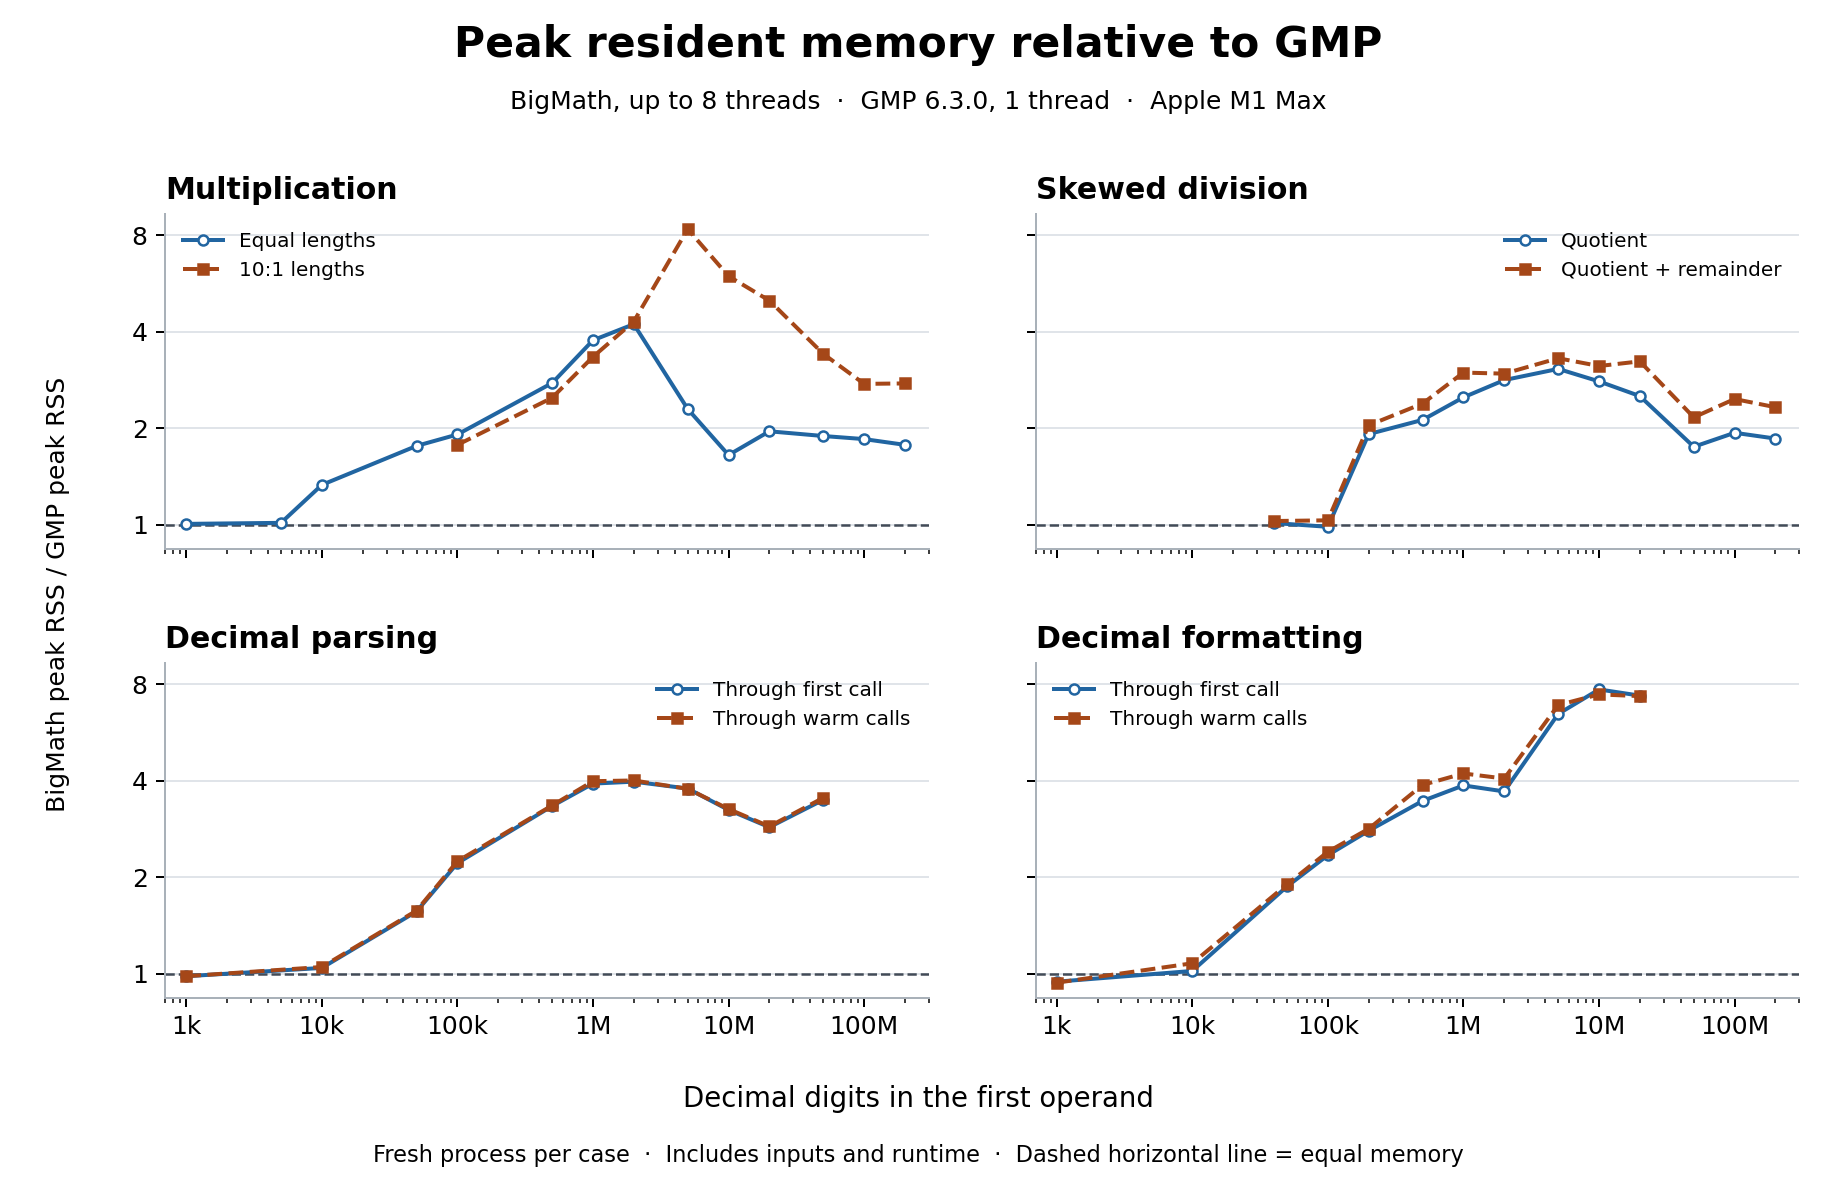
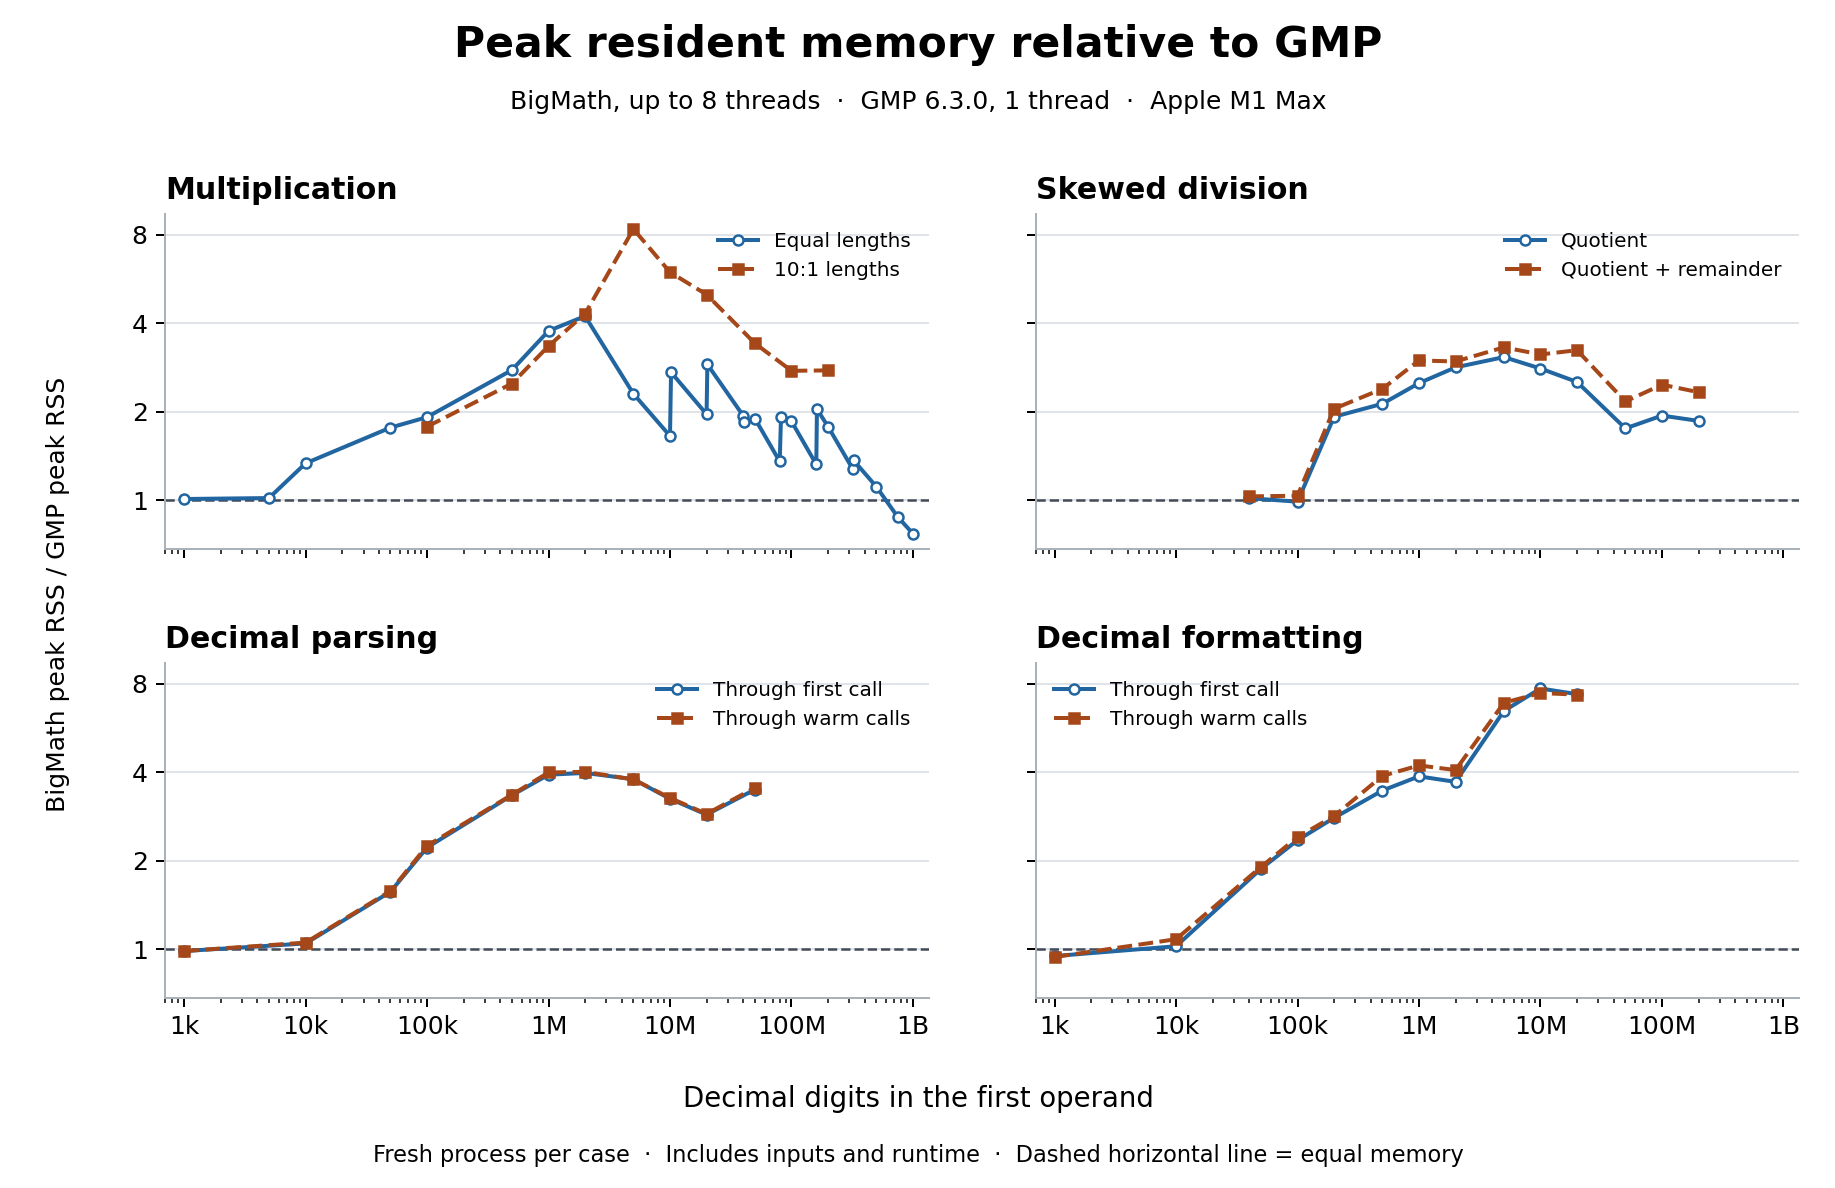
Extend README time and memory comparisons to one billion digits

diff --git a/docs/images/make_benchmark_plots.py b/docs/images/make_benchmark_plots.py
@@ -26,7 +26,18 @@ BEFORE_AFTER = [
 ]
 
 
-def ratio_plot(path, results, figure_title, threads, legend_location="upper right"):
+def large_product_ratios(library):
+    path = BENCHMARKS / "2026-11-21-blocked-crt-memory-m1-max.csv"
+    with path.open(newline="") as src:
+        products = [r for r in csv.DictReader(src)
+                    if r["op"] == "mul" and r["a_digits"] == r["b_digits"]
+                    and int(r["a_digits"]) >= 200_000_000 and r["status"] == "ok"]
+    gmp = {r["id"]: float(r["warm_ms"]) for r in products if r["library"] == "gmp"}
+    return sorted((int(r["a_digits"]), float(r["warm_ms"]) / gmp[r["id"]])
+                  for r in products if r["library"] == library)
+
+
+def ratio_plot(path, results, figure_title, threads, library, legend_location="upper right"):
     with results.open(newline="") as src:
         rows = list(csv.DictReader(line for line in src if not line.startswith("#")))
 
@@ -67,12 +78,16 @@ def ratio_plot(path, results, figure_title, threads, legend_location="upper righ
             ax.plot(*series(op, phase, shape), label=label, color=color, marker=marker,
                     linestyle=style, markersize=4.4, linewidth=1.7,
                     markerfacecolor="white" if style == "--" else color)
-        ax.set_xlim(700, 3e8)
+        if title == "Multiplication":
+            ax.plot(*zip(*large_product_ratios(library)), label="Equal lengths · fresh process",
+                    color="#438456", marker="^", markersize=4.5, linewidth=1.7)
+        ax.set_xlim(700, 1.35e9)
         ax.spines[["top", "right"]].set_visible(False)
         ax.spines[["bottom", "left"]].set_color("#a9b1b9")
         ax.tick_params(labelsize=9)
         ax.yaxis.set_minor_formatter(NullFormatter())
-        ax.legend(loc=legend_location, frameon=False, fontsize=9)
+        ax.legend(loc="best" if title == "Multiplication" else legend_location,
+                  frameon=False, fontsize=9)
     ticks = [1 / 16, 1 / 8, 1 / 4, 1 / 2, 1, 2, 4, 8]
     lo, hi = axes[0, 0].get_ylim()
     if lo > 0.5:
@@ -80,8 +95,8 @@ def ratio_plot(path, results, figure_title, threads, legend_location="upper righ
         axes[0, 0].set_ylim(bottom=lo)
     visible = [t for t in ticks if lo <= t <= hi]
     axes[0, 0].set_yticks(visible, [f"{t:g}×" for t in visible])
-    axes[0, 0].set_xticks([1e3, 1e4, 1e5, 1e6, 1e7, 1e8],
-                          ["1k", "10k", "100k", "1M", "10M", "100M"])
+    axes[0, 0].set_xticks([1e3, 1e4, 1e5, 1e6, 1e7, 1e8, 1e9],
+                          ["1k", "10k", "100k", "1M", "10M", "100M", "1B"])
     fig.suptitle(figure_title, fontsize=17, fontweight="bold", y=0.98)
     fig.text(0.5, 0.918, "Time relative to GMP  ·  Below 1× means BigMath is faster", ha="center", fontsize=11)
     fig.supxlabel("Decimal digits in the first operand", fontsize=11, y=0.066)
@@ -174,10 +189,11 @@ if __name__ == "__main__":
     ratio_plot(HERE / "bigmath_vs_gmp_single_thread.png",
                BENCHMARKS / "2026-11-21-blocked-crt-m1-max-single-thread.csv",
                "Single-thread BigMath vs GMP 6.3.0 on Apple M1 Max", "1 thread per library",
-               legend_location="best")
+               "bigmath_single", legend_location="best")
     ratio_plot(HERE / "bigmath_vs_gmp.png",
                BENCHMARKS / "2026-11-21-blocked-crt-m1-max.csv",
-               "BigMath vs GMP 6.3.0 on Apple M1 Max", "Up to 8 BigMath threads, 1 GMP thread")
+               "BigMath vs GMP 6.3.0 on Apple M1 Max", "Up to 8 BigMath threads, 1 GMP thread",
+               "bigmath_default")
     small = BENCHMARKS / "2026-11-21-small-operands.csv"
     if small.exists():
         small_ops_plot(HERE / "bigmath_vs_gmp_small.png", small)

diff --git a/docs/images/make_memory_plots.py b/docs/images/make_memory_plots.py
@@ -29,8 +29,7 @@ def axes_style(ax):
 
 def plot_ratios(rows, library, path, host, gmp_name, default_name):
     ref = {(r["id"], r["op"]): r for r in rows if r["library"] == "gmp"}
-    data = [r for r in rows if r["library"] == library and r["status"] == "ok"
-            and r["source"] == "manifest"]
+    data = [r for r in rows if r["library"] == library and r["status"] == "ok"]
     warm, first = "warm_peak_bytes", "first_peak_bytes"
     panels = [
         ("Multiplication", [("Equal lengths", "mul", warm, True), ("10:1 lengths", "mul", warm, False)]),
@@ -50,8 +49,14 @@ def plot_ratios(rows, library, path, host, gmp_name, default_name):
                     marker=["o", "s"][i], ms=4, mfc=["white", COLORS[i]][i], lw=1.6)
         ax.set_title(title, loc="left", weight="bold", fontsize=12)
         ax.legend(frameon=False, fontsize=8, loc="best")
-    axes[0, 0].set_xticks([1e3, 1e4, 1e5, 1e6, 1e7, 1e8], ["1k", "10k", "100k", "1M", "10M", "100M"])
-    axes[0, 0].set_xlim(700, 3e8)
+    ticks = [1e3, 1e4, 1e5, 1e6, 1e7, 1e8]
+    labels = ["1k", "10k", "100k", "1M", "10M", "100M"]
+    largest = max(int(r["a_digits"]) for r in data)
+    if largest >= 1e9:
+        ticks.append(1e9)
+        labels.append("1B")
+    axes[0, 0].set_xticks(ticks, labels)
+    axes[0, 0].set_xlim(700, max(3e8, largest * 1.35))
     fig.suptitle("Peak resident memory relative to GMP", fontsize=17, weight="bold", y=.98)
     name = default_name if library == "bigmath_default" else LIBRARIES[library]
     fig.text(.5, .908, "  ·  ".join(filter(None, (name, f"{gmp_name}, 1 thread", host))), ha="center")
@@ -86,12 +91,14 @@ def plot_large(rows, path, host, default_name):
             ax.set_yticks([t for t in (.01, .03, .1, .3, 1, 3, 10, 30, 100) if lo <= t <= hi])
         ax.set_xlim(8.5, 1100)
         ax.set_title(title, loc="left", weight="bold", fontsize=12)
-        ax.set_xticks([10, 20, 50, 100, 200, 500, 1000], ["10", "20", "50", "100", "200", "500", "1,000"])
+        ax.set_xticks([10, 20, 50, 100, 200, 500, 750, 1000],
+                      ["10M", "20M", "50M", "100M", "200M", "500M", "750M", "1B"])
+        ax.get_xticklabels()[-1].set_ha("left")
         ax.tick_params(labelsize=9)
     fig.suptitle("Balanced multiplication through one billion digits", fontsize=16, weight="bold", y=.97)
     fig.legend(*axes[0].get_legend_handles_labels(), loc="upper center", bbox_to_anchor=(.5,.90),
                ncol=3, frameon=False, fontsize=9)
-    fig.supxlabel("Millions of decimal digits per operand", fontsize=11, y=.09)
+    fig.supxlabel("Decimal digits per operand", fontsize=11, y=.09)
     note = "Shaded sizes exceed BigMath’s CRT limit (323.2M)" if limited else "Dotted line = single-transform CRT limit (323.2M)"
     fig.text(.5,.035, "  ·  ".join(filter(None, (host, note, "Points are measured products"))),
              ha="center", fontsize=9)

diff --git a/docs/images/make_memory_fix_plot.py b/docs/images/make_memory_fix_plot.py
@@ -13,6 +13,7 @@ CASES = [
     ("weights-single", "mul", 200_000_000, 200_000_000, "Single-thread\n200M × 200M"),
     ("planes-default", "mul", 200_000_000, 200_000_000, "Threaded\n200M × 200M"),
     ("conversion-default", "tostr", 10_000_000, 0, "Format\n10M digits"),
+    ("conversion-default", "parse", 50_000_000, 0, "Parse\n50M digits"),
 ]
 fig, axes = plt.subplots(1, 2, figsize=(10.5, 4.0), layout="constrained")
 for ax, field, title in zip(axes, ("warm_peak_bytes", "warm_ms"),
@@ -26,7 +27,8 @@ for ax, field, title in zip(axes, ("warm_peak_bytes", "warm_ms"),
         for name, offset, color in (("before", -.18, "#94adc4"), ("after", .18, "#2165a1")):
             ratio = value(name) / value("gmp")
             ax.bar(i + offset, ratio, .34, color=color, label=name.capitalize() if i == 0 else None)
-            ax.annotate(f"{ratio:.2g}×", (i + offset, ratio), xytext=(0, 3),
+            ax.annotate(f"{ratio:.3g}×", (i + offset, ratio),
+                        xytext=(-3, 3) if name == "before" else (3, 12),
                         textcoords="offset points", ha="center", fontsize=8)
     ax.axhline(1, color="#55616b", ls="--", lw=1)
     ax.set_xticks(range(len(CASES)), [case[-1] for case in CASES], fontsize=8)

diff --git a/README.md b/README.md
@@ -8,6 +8,8 @@ Target: portable C++ (with optional NEON intrinsics on aarch64, scalar fallbacks
 
 The November 21, 2026 full benchmark measured revision `9d3f1d4` on an Apple M1 Max. Both BigMath builds used identical operands and a fresh single-thread GMP 6.3.0 reference. Values below 1× mean BigMath was faster. The arithmetic panels show warm calls, and the decimal conversion panels show first and warm calls. Most large cases had one warm measurement per library.
 
+In both timing figures, triangles show balanced products from 200M to 1B digits per operand. Each point compares BigMath and GMP on the same inputs in fresh processes. The 200M point appears in both timing runs. [Large-product measurements](BENCHMARK.md#balanced-products-through-one-billion-digits)
+
 ### Single-threaded BigMath and GMP
 
 At 50M, 100M and 200M digits per operand, balanced multiplication took 0.96×, 0.99× and 1.01× GMP’s time. The 200M-digit product took 2.88 s in BigMath and 2.85 s in GMP.
@@ -32,13 +34,13 @@ Processing the three primes in sequence lets threaded products reuse two scratch
 
 Sharing immutable transform tables across workers and reusing per-thread buffers cut the 10M-digit formatting peak from 525 to 372 MiB. Parsing 50M digits fell from 1,588 to 1,084 MiB. Warm times for those cases also improved.
 
-![Peak memory and warm time before and after each optimization relative to GMP](docs/images/bigmath_memory_fixes.png)
+![Peak memory and warm time relative to GMP before and after changes to multiplication, formatting 10M digits and parsing 50M digits](docs/images/bigmath_memory_fixes.png)
 
 Multiplication at 5M × 500k digits had the largest threaded peak ratio in the integer suite, 8.37× GMP (88.1 versus 10.5 MiB). [Full memory results](BENCHMARK.md#peak-memory-and-large-product-time)
 
-![Peak memory of multithreaded BigMath relative to GMP](docs/images/bigmath_vs_gmp_memory.png)
+![Multithreaded BigMath peak memory relative to GMP, including balanced products through one billion digits per operand](docs/images/bigmath_vs_gmp_memory.png)
 
-![Peak memory of single-threaded BigMath relative to GMP](docs/images/bigmath_vs_gmp_memory_single_thread.png)
+![Single-threaded BigMath peak memory relative to GMP, including balanced products through one billion digits per operand](docs/images/bigmath_vs_gmp_memory_single_thread.png)
 
 Blocked multiplication completed at 500M, 750M and one billion digits per operand. At one billion digits the threaded build took **12.26 s** and peaked at **4.19 GiB**. Single-threaded BigMath took 75.10 s and 3.91 GiB. GMP took 18.28 s and 5.45 GiB. [Timings, memory and transform boundaries](BENCHMARK.md#balanced-products-through-one-billion-digits)
 

diff --git a/BENCHMARK.md b/BENCHMARK.md
@@ -6,6 +6,8 @@ The November 21, 2026 full timing run measured revision `9d3f1d4` on the Apple M
 
 The full CSV includes the first call, fastest subsequent call, warm repetition count and arithmetic check status for all 111 rows. Most large sizes have one warm observation per library. All 24 product checks and 40 division checks matched GMP’s reference hashes. Each division mode was checked against the corresponding GMP operation. [README performance table](README.md#performance-numbers) · [Single-thread CSV](docs/benchmarks/2026-11-21-blocked-crt-m1-max-single-thread.csv) · [Single-thread figure](docs/images/bigmath_vs_gmp_single_thread.png)
 
+The timing figures also show a separate series for balanced multiplication from 200M to 1B digits. Its ratios use the warm times from the isolated run for both libraries. [Isolated measurements](docs/benchmarks/2026-11-21-blocked-crt-memory-m1-max.csv)
+
 To repeat the single-thread run, give the driver its own build and results directory. The figure generator uses the checked-in CSVs and requires Matplotlib.
 
 ```sh
